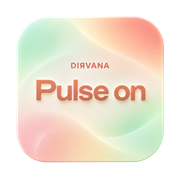
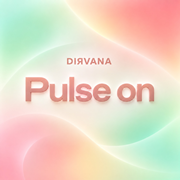
[fix] 홈화면 아이콘 추가 이미지 규격 변경

diff --git a/index.html b/index.html
@@ -2,9 +2,9 @@
 <html lang="ko">
   <head>
     <meta charset="UTF-8" />
-    <link rel="icon" type="image/png" href="/favicon.png" />
-    <link rel="apple-touch-icon" sizes="180x180" href="/apple-touch-icon.png" />
-    <link rel="manifest" href="/site.webmanifest" />
+    <link rel="icon" type="image/png" href="/favicon.png?v=original-20260928" />
+    <link rel="apple-touch-icon" sizes="180x180" href="/apple-touch-icon.png?v=20260928" />
+    <link rel="manifest" href="/site.webmanifest?v=20260928" />
     <meta name="apple-mobile-web-app-title" content="풀스온" />
     <meta name="apple-mobile-web-app-capable" content="yes" />
     <meta name="apple-mobile-web-app-status-bar-style" content="black-translucent" />
